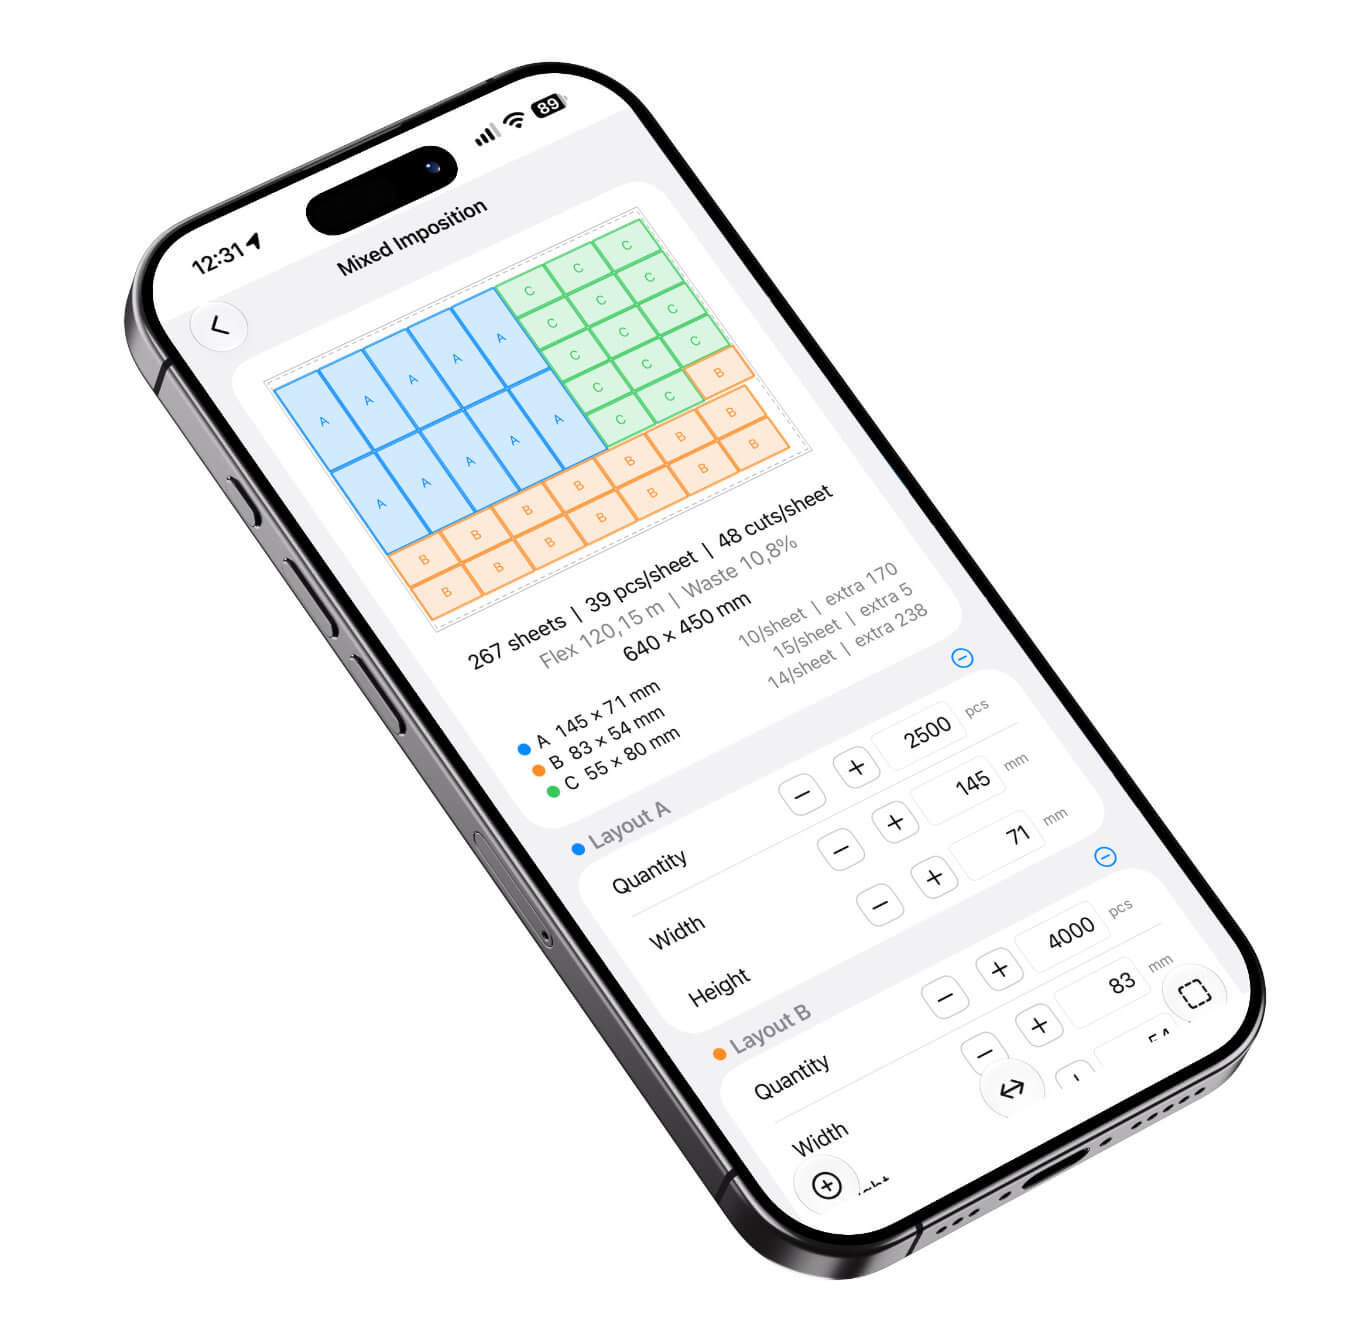
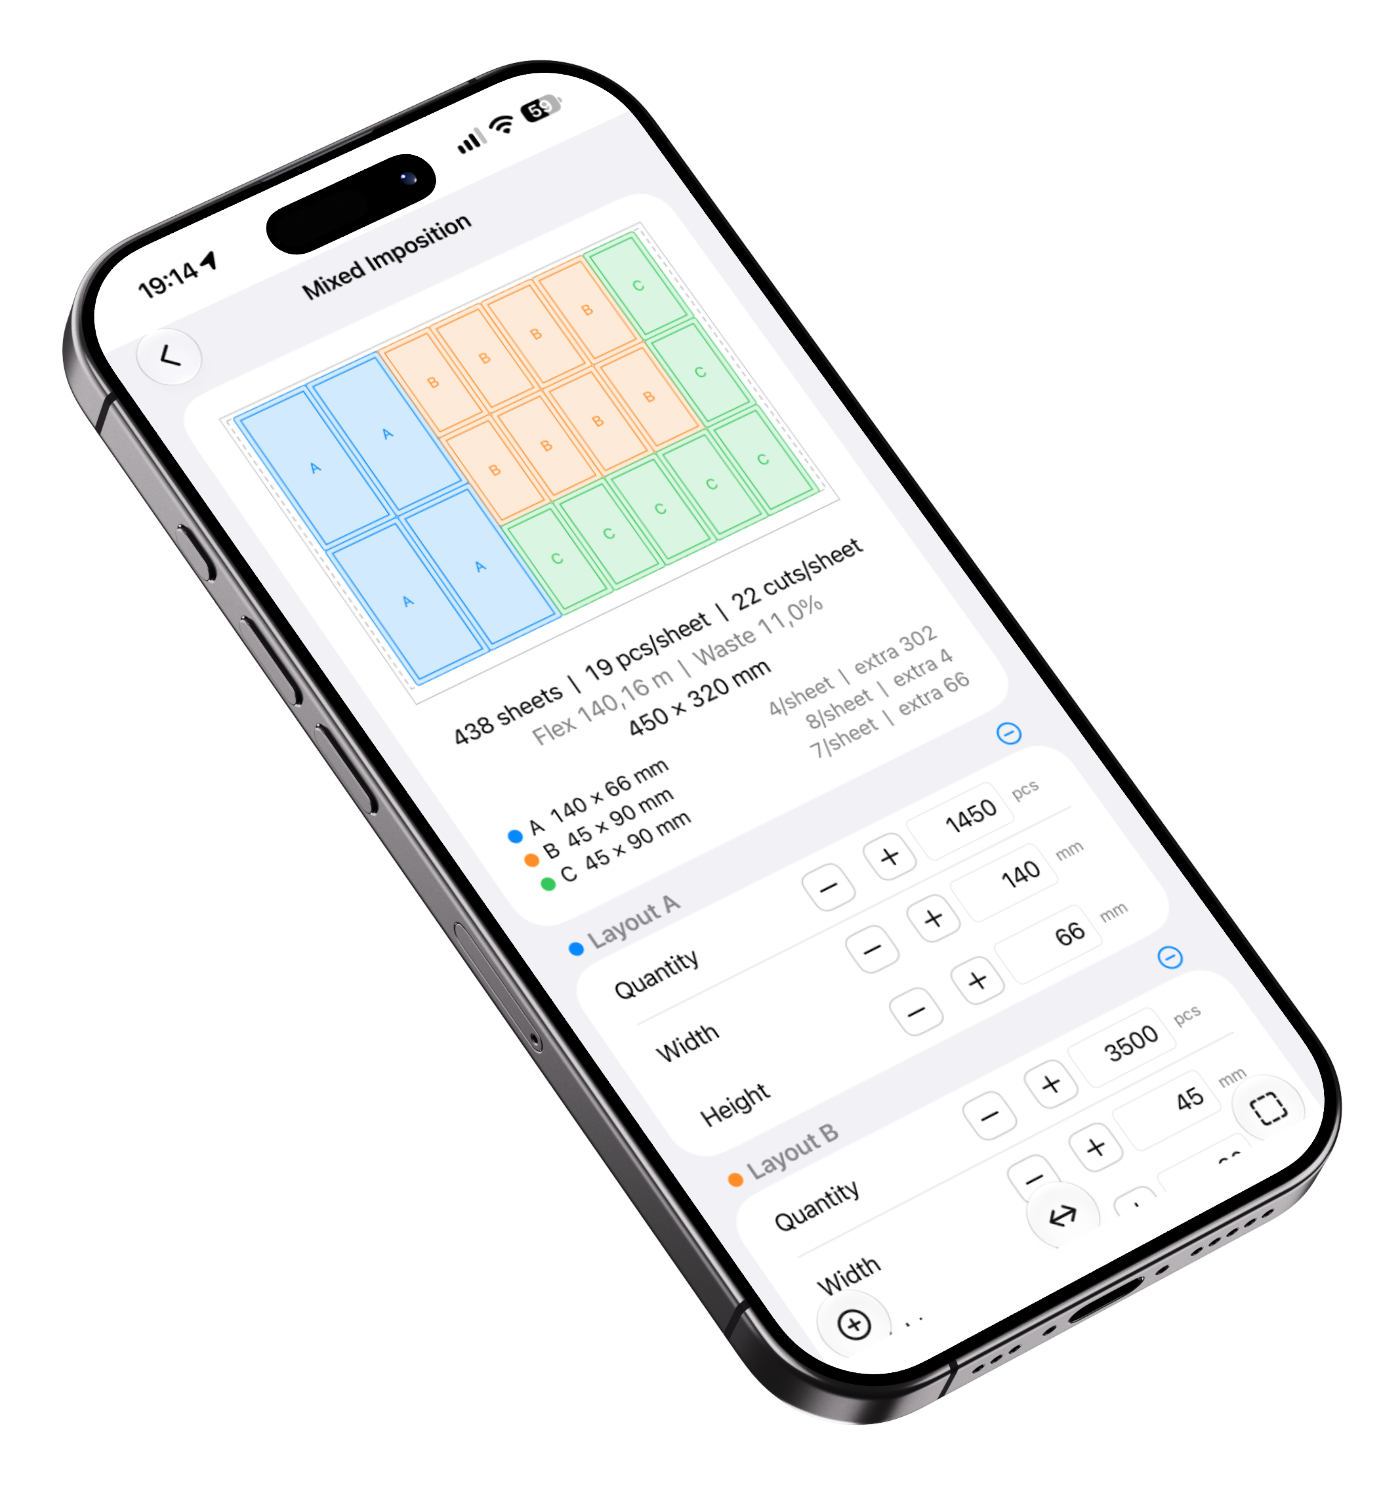
slide iphone foto

diff --git a/index.html b/index.html
@@ -287,7 +287,7 @@
             <!--//Why is created --> 
 
 
-
+            <!--Slide -->
             <div class="section">
                 <div class="container">
                     <div class="text-center col-lg-7 mx-auto mb-5">
@@ -350,6 +350,10 @@
                     desktopViewport.addListener(updateComparisonImages);
                 }
             </script>
+            <!--/Slide -->
+
+
+
 
             <div id="stop_wasting_time" class="section pt-5 p-0 mt-1 bg-light">
                 <div class="text-center col-lg-7 mx-auto mb-5">
